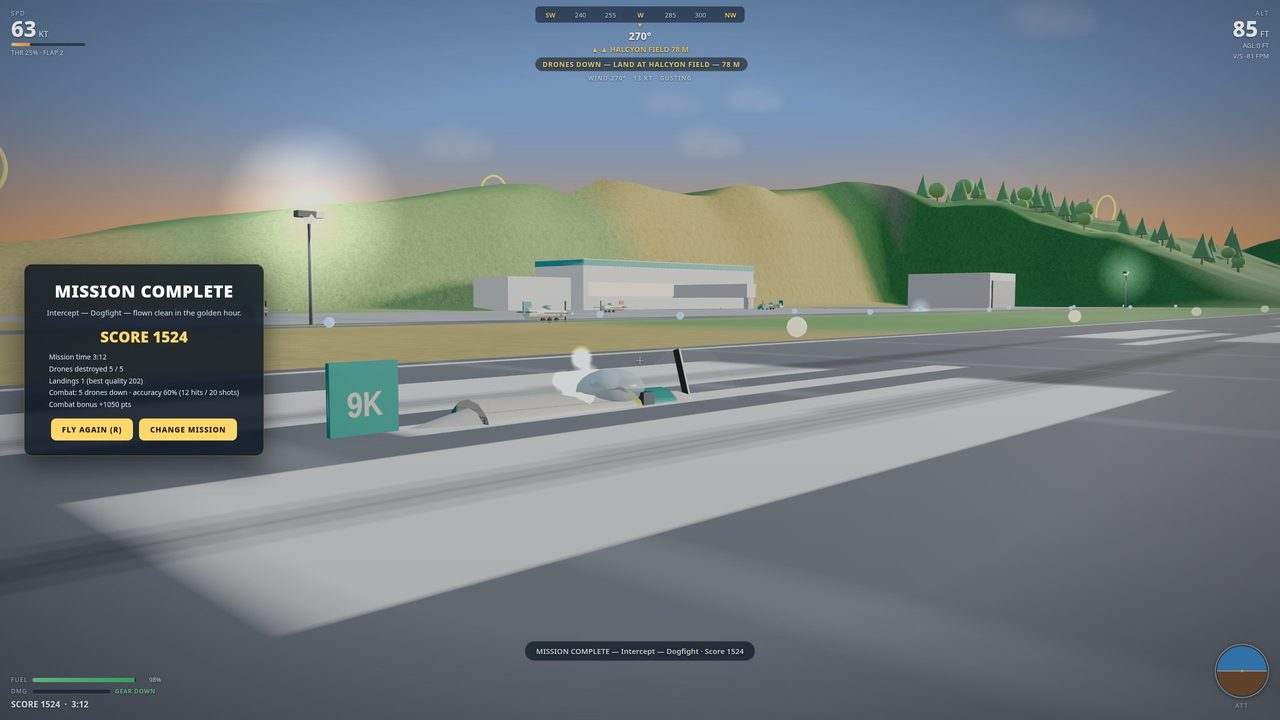
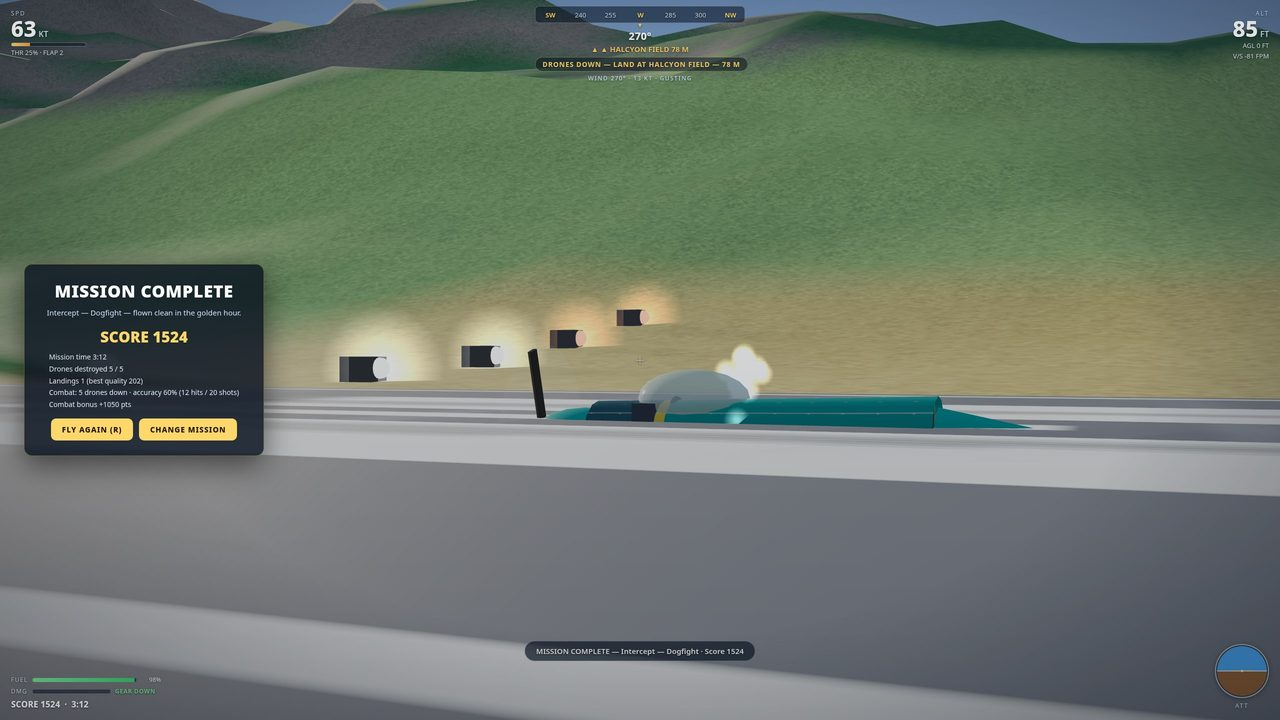
Shot 04 fix (v9): plane unmistakable on the end card\n\n- Larisha: v8 shot 04 plane 'kaga keliatan' — the pale cream   Kestrel vanished against the pale runway, and the tail fin   read as a separate teal '9K' signboard.\n- Camera: pure side profile from the south (side -14, back   2.5, up 1.0, FOV 3

diff --git a/game/js/plane.js b/game/js/plane.js
@@ -73,6 +73,47 @@
     return new THREE.CanvasTexture(cv);
   }
 
+  // Dark livery (combatcomplete end card only): teal fuselage with
+  // a cream name and gold stripe, so the parked Kestrel reads as a
+  // plane against the pale runway instead of vanishing into it.
+  // The cream livery above is the flight livery; this one is only
+  // swapped in by the end-card staging, never in flight.
+  function liveryTextureDark() {
+    var cv = document.createElement("canvas");
+    cv.width = 512; cv.height = 512;
+    var g = cv.getContext("2d");
+    g.fillStyle = "#0f6f6a"; g.fillRect(0, 0, 512, 512);
+    g.fillStyle = "#14313d"; g.fillRect(0, 400, 512, 112);
+    g.fillStyle = "#e8a91c"; g.fillRect(0, 384, 512, 16);
+    g.strokeStyle = "rgba(243,234,214,0.4)"; g.lineWidth = 3;
+    for (var px = 64; px < 512; px += 64) {
+      g.beginPath(); g.moveTo(px, 0); g.lineTo(px, 512); g.stroke();
+    }
+    g.fillStyle = "rgba(243,234,214,0.5)";
+    for (var rx = 32; rx < 512; rx += 32)
+      for (var ry = 24; ry < 512; ry += 48) g.fillRect(rx, ry, 3, 3);
+    g.fillStyle = "#f3ead6"; g.font = "bold 66px Arial"; g.textAlign = "center";
+    g.save(); g.translate(128, 200); g.rotate(Math.PI / 2); g.fillText("KESTREL-9", 0, 22); g.restore();
+    g.save(); g.translate(384, 200); g.rotate(-Math.PI / 2); g.fillText("KESTREL-9", 0, 22); g.restore();
+    return new THREE.CanvasTexture(cv);
+  }
+
+  function wingTextureDark() {
+    var cv = document.createElement("canvas");
+    cv.width = 256; cv.height = 128;
+    var g = cv.getContext("2d");
+    g.fillStyle = "#0f6f6a"; g.fillRect(0, 0, 256, 128);
+    g.fillStyle = "#e8a91c"; g.fillRect(0, 8, 256, 10);
+    g.strokeStyle = "rgba(243,234,214,0.35)"; g.lineWidth = 2;
+    for (var x = 32; x < 256; x += 32) {
+      g.beginPath(); g.moveTo(x, 0); g.lineTo(x, 128); g.stroke();
+    }
+    g.fillStyle = "rgba(243,234,214,0.4)";
+    for (var rx = 16; rx < 256; rx += 32)
+      for (var ry = 30; ry < 128; ry += 24) g.fillRect(rx, ry, 2, 2);
+    return new THREE.CanvasTexture(cv);
+  }
+
   function buildPlane() {
     var group = new THREE.Group();
     // painted metal, not flat plastic: a lower roughness and a
@@ -87,6 +128,10 @@
     // fuselage: main tube + nose + tail cone, with livery texture
     var livTex = liveryTexture();
     var bodyMat = new THREE.MeshStandardMaterial({ map: livTex, roughness: 0.32, metalness: 0.4 });
+    // end-card dark livery (swapped in by applyDarkLivery only)
+    var darkBodyMat = new THREE.MeshStandardMaterial({ map: liveryTextureDark(), roughness: 0.32, metalness: 0.4 });
+    var darkWingMat = new THREE.MeshStandardMaterial({ map: wingTextureDark(), roughness: 0.4, metalness: 0.3 });
+    var darkCream = new THREE.MeshStandardMaterial({ color: 0x0f6f6a, roughness: 0.35, metalness: 0.25 });
     var body = new THREE.Mesh(new THREE.CylinderGeometry(0.62, 0.5, 4.6, 14), bodyMat);
     body.rotation.x = Math.PI / 2;
     body.position.z = 0.2;
@@ -119,12 +164,14 @@
     // wings: tapered boxes with slight dihedral, teal tips
     var wingTex = wingTexture();
     var wingMat = new THREE.MeshStandardMaterial({ map: wingTex, roughness: 0.4, metalness: 0.3 });
+    var wingPanels = [];
     function wing(side) {
       var w = new THREE.Group();
       var panel = new THREE.Mesh(new THREE.BoxGeometry(3.1, 0.14, 1.25), wingMat);
       panel.position.x = side * 1.95;
       panel.castShadow = true;
       w.add(panel);
+      wingPanels.push(panel);
       var tip = new THREE.Mesh(new THREE.BoxGeometry(0.5, 0.15, 1.1), teal);
       tip.position.x = side * 3.65;
       w.add(tip);
@@ -215,7 +262,29 @@
       group: group, prop: prop, disc: disc, gear: gear, blades: blades,
       navL: navL, navR: navR, strobe: strobe,
       trailL: trailL, trailR: trailR,
+      parts: { body: body, nose: nose, tail: tail, wings: wingPanels, fin: fin },
+      darkMats: { body: darkBodyMat, cream: darkCream, wing: darkWingMat, fin: teal },
     };
+  }
+
+  // End-card only: swap the cream flight livery for the dark one so
+  // the parked Kestrel reads against the pale runway. Called from
+  // the combatcomplete staging; no other staging or gameplay path
+  // uses it, so the flight shots keep the cream livery.
+  function applyDarkLivery(pl) {
+    if (!pl || !pl.parts || !pl.darkMats) return;
+    pl.parts.body.material = pl.darkMats.body;
+    pl.parts.nose.material = pl.darkMats.cream;
+    pl.parts.tail.material = pl.darkMats.cream;
+    for (var i = 0; i < pl.parts.wings.length; i++) pl.parts.wings[i].material = pl.darkMats.wing;
+    // the fin reads as a separate teal signboard from the side —
+    // proven by probe: hiding it leaves a clean tapering tail,
+    // while its flat 1.1 x 1.25 m face is a uniform rectangle that
+    // no livery or repositioning fixes (it floats free of the
+    // fuselage because the tail cone tapers to a hairline where
+    // the fin stands). The end card hides the fin; the flight
+    // shots keep it.
+    pl.parts.fin.visible = false;
   }
 
   function pushTrail(trail, x, y, z) {
@@ -253,6 +322,6 @@
   function lerp(a, b, t) { return a + (b - a) * t; }
   function clamp(v, lo, hi) { return v < lo ? lo : v > hi ? hi : v; }
 
-  var api = { buildPlane: buildPlane, updatePlane: updatePlane, pushTrail: pushTrail };
+  var api = { buildPlane: buildPlane, updatePlane: updatePlane, pushTrail: pushTrail, applyDarkLivery: applyDarkLivery };
   global.SkylanePlane = api;
 })(typeof window !== "undefined" ? window : globalThis);

diff --git a/game/js/game.js b/game/js/game.js
@@ -576,6 +576,11 @@
         }
         game.mission.time = 185;
         game.mission.messageT = 0;
+        // v9: dark end-card livery — the cream flight livery
+        // vanishes against the pale runway, so the parked Kestrel
+        // wears teal for the end card only (other stagings keep
+        // the cream livery).
+        if (SkylanePlane.applyDarkLivery) SkylanePlane.applyDarkLivery(planeObj);
         resetPlane({ x: f.x + 320, y: f.elev + 40, z: f.z, heading: -Math.PI / 2 });
         s.onGround = false; s.airborne = true;
         s.vx = -32; s.vy = -1.2; s.vz = 0;
@@ -653,20 +658,24 @@
         // plane small at the left edge behind its own explosion)
         var combatView = !!game.combat;
         var ringTight = game.staging === "ringcombat";
-        // v8d: third pass (back 7 / up 1.8 / side 10) backfired —
-        // closer + lower put the tail fin ("9K") huge again while
-        // the fuselage foreshortened away. The v8b side profile
-        // (back 10 / up 2.0 / side 14) read best: keep its angle,
-        // pull slightly closer and tighten FOV so the Kestrel fills
-        // ~a third of the frame instead of a fifth.
+        // v9: Larisha looked at the v8 frame and the plane is NOT
+        // visible ("Kaga keliatan") — she is right: the rear-side
+        // angle foreshortens the fuselage to a pale blob on pale
+        // runway, and the fin reads as a separate "9K" signboard.
+        // Go pure side profile from the SOUTH side (side -14): the
+        // full flank + KESTREL-9 name + fin at the tail end read as
+        // one aircraft, the cream fuselage sits against the dark
+        // north grass and hills instead of the bright strip, and
+        // the terminal/taxiway stay behind the camera. Back 2.5 /
+        // up 1.6 / FOV 38 puts the Kestrel at ~40% of the frame.
         var completeView = game.staging === "combatcomplete";
-        var back = tight ? 13.5 : (landTight ? 8.5 : (completeView ? 9 : (combatView ? (ringTight ? 13 : 15) : 11 + s.speed * 0.04))),
-          up = tight ? 3.2 : (landTight ? 2.2 : (completeView ? 2.2 : (combatView ? (ringTight ? 3.8 : 4.2) : 3.2 + s.speed * 0.008)));
+        var back = tight ? 13.5 : (landTight ? 8.5 : (completeView ? 2.5 : (combatView ? (ringTight ? 13 : 15) : 11 + s.speed * 0.04))),
+          up = tight ? 3.2 : (landTight ? 2.2 : (completeView ? 1.0 : (combatView ? (ringTight ? 3.8 : 4.2) : 3.2 + s.speed * 0.008)));
         // ANGLE FIX (v6): a wider side offset (12 m, not 8) puts the
         // chase at a true three-quarter rear angle, so the fuselage
         // flank — and the KESTREL-9 name running along it — reads
         // instead of the tail alone
-        var side = tight ? 12 : (landTight ? 2.5 : (completeView ? 12 : (combatView ? (ringTight ? 7 : 9) : 0)));
+        var side = tight ? 12 : (landTight ? 2.5 : (completeView ? -14 : (combatView ? (ringTight ? 7 : 9) : 0)));
         var q2 = new THREE.Quaternion().setFromEuler(new THREE.Euler(s.pitch * 0.4, -s.heading, -s.roll * 0.45, "YXZ"));
         tmpV.set(side, up, back).applyQuaternion(q2).add(planeObj.group.position);
         var k = 1 - Math.exp(-ldt * (tight ? 22 : 8));
@@ -699,7 +708,7 @@
         var k2 = 1 - Math.exp(-ldt * 7);
         camLook.lerp(tmpV, k2);
         camera.lookAt(camLook);
-        var wantFov = landTight ? 46 : (completeView ? 44 : 62 + clamp((s.speed - 30) / 50, 0, 1) * 16);
+        var wantFov = landTight ? 46 : (completeView ? 36 : 62 + clamp((s.speed - 30) / 50, 0, 1) * 16);
         camera.fov = lerp(camera.fov, wantFov, ldt * 3);
       }
       camera.updateProjectionMatrix();
